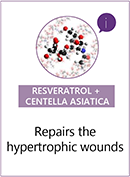
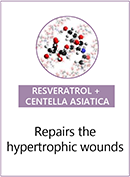
Update

Changed region(s): [[0.7385, 0.0565, 0.8923, 0.1977]]

diff --git a/global.js b/global.js
@@ -385,7 +385,7 @@ currentSlide();
 var selectedContentPath='';
 switch(pg_id){
 	case 1:
-	content='<link rel="stylesheet" type="text/css" href="slide1/slide1.css" media="screen"/><div class="s1_1"><img src="slide1/s1_1.png"/></div><div class="s1_2"><img src="slide1/s1_2.png"/></div><div class="s1_3"><img src="slide1/s1_3.png"/></div><div class="s1_4"><img src="slide1/s1_4.png"/></div><div class="s1_5"><img src="slide1/s1_5.png"/></div><div class="s1_6"><img src="slide1/s1_6.png"/></div><div class="s1_7"><img src="slide1/s1_7.png"/></div><div class="s1_8"><img src="slide1/s1_8.png"/></div><div class="s1_9"><img src="slide1/s1_9.png"/></div><div class="popup"><img src="slide1/s1_10.png" width="1024" height="768" alt=""/></div><div class="pop_open" onclick="pop_open()"></div><div class="pop_close" onclick="pop_close()"></div>';
+	content='<link rel="stylesheet" type="text/css" href="slide1/slide1.css" media="screen"/><div class="s1_1"><img src="slide1/s1_1.png"/></div><div class="s1_2"><img src="slide1/s1_2.png"/></div><div class="s1_3"><img src="slide1/s1_3.png"/></div><div class="s1_4"><img src="slide1/s1_4.png"/></div><div class="s1_5"><img src="slide1/s1_5.png"/></div><div class="s1_6"><img src="slide1/s1_6.png"/></div><div class="s1_7"><img src="slide1/s1_7.png"/></div><div class="s1_8"><img src="slide1/s1_8.png"/></div><div class="s1_9"><img src="slide1/s1_9.png"/></div><div class="s1_11"><img src="slide1/s1_11.png"/></div><div class="popup"><img src="slide1/s1_10.png" width="1024" height="768" alt=""/></div><div class="pop_open" onclick="pop_open()"></div><div class="pop_close" onclick="pop_close()"></div>';
 	break;
 	case 2:
 	content='<link rel="stylesheet" type="text/css" href="slide2/slide2.css" media="screen"/><div class="background"><img src="slide2/s2_1.jpg" width="1024" height="768" alt=""></div>';

diff --git a/index.html b/index.html
@@ -82,7 +82,7 @@ if (typeof(localStorage.getItem("currentcustomslideflag"))!='undefined' && local
 	 
 }else{
 
-$("#main_content").html('<link rel="stylesheet" type="text/css" href="slide1/slide1.css" media="screen"/><div class="s1_1"><img src="slide1/s1_1.png"/></div><div class="s1_2"><img src="slide1/s1_2.png"/></div><div class="s1_3"><img src="slide1/s1_3.png"/></div><div class="s1_4"><img src="slide1/s1_4.png"/></div><div class="s1_5"><img src="slide1/s1_5.png"/></div><div class="s1_6"><img src="slide1/s1_6.png"/></div><div class="s1_7"><img src="slide1/s1_7.png"/></div><div class="s1_8"><img src="slide1/s1_8.png"/></div><div class="s1_9"><img src="slide1/s1_9.png"/></div><div class="popup"><img src="slide1/s1_10.png" width="1024" height="768" alt=""/></div><div class="pop_open" onclick="pop_open()"></div><div class="pop_close" onclick="pop_close()"></div>');
+$("#main_content").html('<link rel="stylesheet" type="text/css" href="slide1/slide1.css" media="screen"/><div class="s1_1"><img src="slide1/s1_1.png"/></div><div class="s1_2"><img src="slide1/s1_2.png"/></div><div class="s1_3"><img src="slide1/s1_3.png"/></div><div class="s1_4"><img src="slide1/s1_4.png"/></div><div class="s1_5"><img src="slide1/s1_5.png"/></div><div class="s1_6"><img src="slide1/s1_6.png"/></div><div class="s1_7"><img src="slide1/s1_7.png"/></div><div class="s1_8"><img src="slide1/s1_8.png"/></div><div class="s1_9"><img src="slide1/s1_9.png"/></div><div class="s1_11"><img src="slide1/s1_11.png"/></div><div class="popup"><img src="slide1/s1_10.png" width="1024" height="768" alt=""/></div><div class="pop_open" onclick="pop_open()"></div><div class="pop_close" onclick="pop_close()"></div>');
 }
 });
 </script> 

diff --git a/slide1/slide1.css b/slide1/slide1.css
@@ -106,6 +106,29 @@
   z-index: 10;
 }
 
+.s1_11 {
+  position: absolute;
+  left: 540px;
+  top: 290px;
+  width: 28px;
+  height: 36px;
+  animation: flashIt 1s infinite;
+  animation-delay: 2.5s;
+  animation-fill-mode: both;
+  z-index: 20;
+}
+
+
+@keyframes flashIt {
+  0%, 50%, 100% {
+    opacity: 0;
+  }
+
+  25%, 75% {
+    opacity: 1;
+  }
+}
+
 .popup {
   position: absolute;
   width: 1024px;
